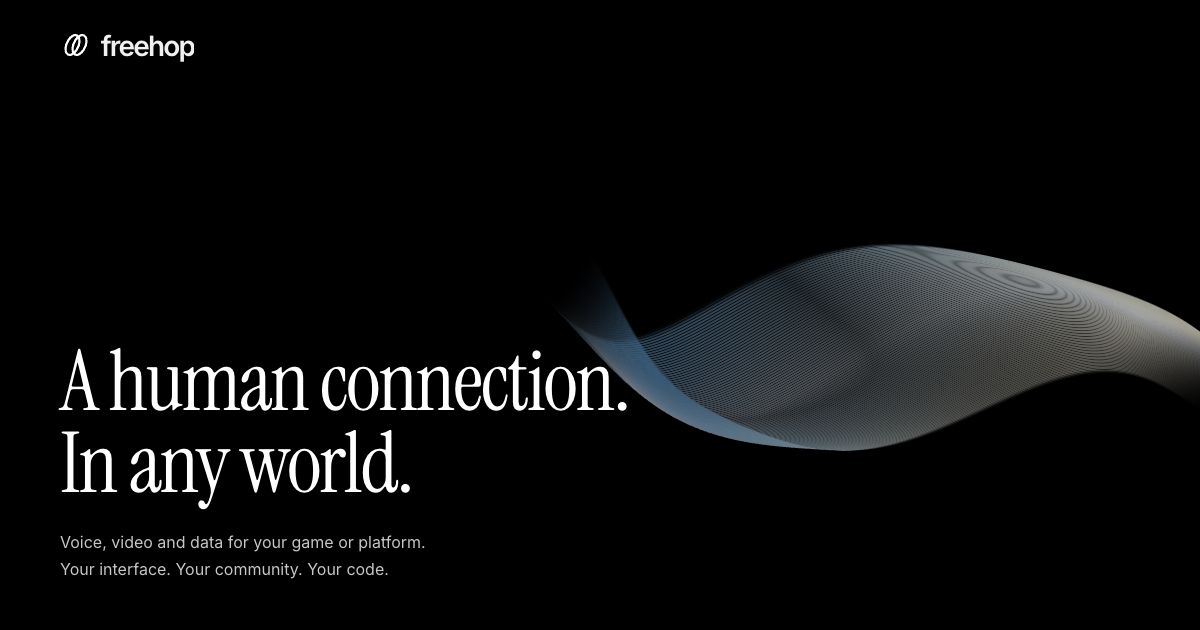
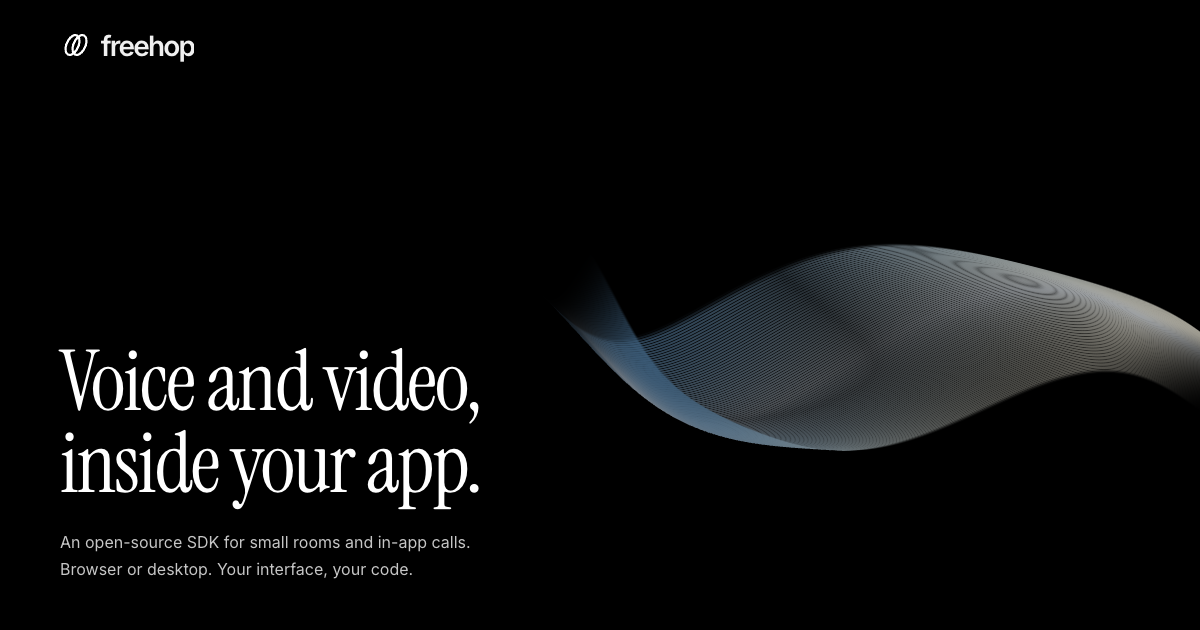
Show practical calling use cases beyond games

Changed region(s): [[0.0308, 0.5429, 0.5242, 0.6635], [0.0308, 0.6937, 0.4008, 0.8143], [0.0308, 0.8444, 0.4008, 0.9349]]

diff --git a/website/src/pages/index.tsx b/website/src/pages/index.tsx
@@ -5,6 +5,7 @@ import Link from '@docusaurus/Link';
 import BrowserOnly from '@docusaurus/BrowserOnly';
 import CodeBlock from '@theme/CodeBlock';
 import AppShowcase from '@site/src/components/home/AppShowcase';
+import UseCases from '@site/src/components/home/UseCases';
 import CompareTable from '@site/src/components/compare/CompareTable';
 import s from './index.module.css';
 const snippet = `import { connect } from 'freehop';
@@ -23,8 +24,8 @@ export default function Home() {
   const [copy, setCopy] = useState('Copy');
   return (
     <Layout
-      title="A human connection. In any world."
-      description="Freehop is the open-source voice, video and data SDK for browser games, Electron apps and platforms. Build with AI or without it."
+      title="Voice and video, inside your app."
+      description="An open-source calling SDK for small meeting rooms, in-app calls, shared workspaces and Electron apps. Your interface, with voice, video and session data."
     >
       <Head>
         <html className="fh-home" />
@@ -43,7 +44,7 @@ export default function Home() {
             <span>
               Open-source connections.
               <br />
-              Built for the worlds you create.
+              For the apps you build.
             </span>
             <span>
               Browser / Desktop
@@ -53,16 +54,16 @@ export default function Home() {
           </div>
           <div className={s.heroCopy}>
             <h1 id="hero-title">
-              A human connection.
+              Voice and video,
               <br />
-              In any world.
+              inside your app.
             </h1>
             <div className={s.heroBottom}>
               <div>
                 <p>
-                  Voice, video and data for your game or platform.
+                  An open-source SDK for small rooms and in-app calls.
                   <br />
-                  Your interface. Your community. Your code.
+                  Browser or desktop. Your interface, your code.
                 </p>
                 <div className={s.actions}>
                   <Link className={s.primary} to="/demo">
@@ -95,9 +96,9 @@ export default function Home() {
           <div className={s.buildIntro}>
             <p className={s.label}>The Freehop SDK</p>
             <h2>
-              Voice, video, data.
+              One SDK.
               <br />
-              Inside your app.
+              Your interface.
             </h2>
             <p>
               Connect a session, attach incoming media to your own interface, and send small messages between participants. The same JavaScript API works in the
@@ -137,6 +138,7 @@ export default function Home() {
             </p>
           </div>
         </section>
+        <UseCases />
         <AppShowcase />
         <section className={s.network}>
           <p className={s.label}>How the connection works</p>
@@ -187,9 +189,9 @@ export default function Home() {
         <section className={s.closing}>
           <p className={s.label}>Apache-2.0 / No Freehop subscription</p>
           <h2>
-            The next world
+            Build your
             <br />
-            is yours.
+            first call.
           </h2>
           <div className={s.actions}>
             <Link className={s.primary} to="/docs/quickstart">

diff --git a/website/src/components/home/UseCases.tsx b/website/src/components/home/UseCases.tsx
@@ -1,0 +1,76 @@
+import Link from '@docusaurus/Link';
+import s from './UseCases.module.css';
+
+const USE_CASES = [
+  {
+    id: 'meeting-rooms',
+    name: 'Small meeting rooms',
+    example: 'Team check-ins, study groups, project calls.',
+    description: 'Build a room with a joining link, camera preview and chat. Keep the controls simple and the room part of your own product.',
+    capability: 'Voice · video · room messages',
+    action: 'Build a meeting room',
+  },
+  {
+    id: 'in-app-calls',
+    name: 'Calls inside a small app',
+    example: 'A support call beside the customer’s project.',
+    description: 'Add a call panel to an existing portal or tool. People can talk while keeping the page, task and context in front of them.',
+    capability: 'Your interface · your sign-in',
+    action: 'Embed a call',
+  },
+  {
+    id: 'shared-workspaces',
+    name: 'Shared workspaces',
+    example: 'Design reviews, pair building, shared canvases.',
+    description: 'Put a conversation beside the work. Send small events such as a selected item or a raised hand alongside voice and video.',
+    capability: 'Media tracks · application events',
+    action: 'Connect a workspace',
+  },
+  {
+    id: 'desktop-apps',
+    name: 'Desktop collaboration',
+    example: 'A team tool with calling built in.',
+    description: 'Use the same client in Electron. An optional desktop gateway can help other people in the session connect through difficult networks.',
+    capability: 'Browser API · Electron gateway',
+    action: 'Build for desktop',
+  },
+  {
+    id: 'community-rooms',
+    name: 'Community rooms & games',
+    example: 'Club hangouts, co-op voice, small watch groups.',
+    description: 'Give a few people a place to talk inside your community or game. Your app supplies the activity; Freehop connects the participants.',
+    capability: 'Voice-first rooms · optional video',
+    action: 'Add a community room',
+  },
+];
+
+export default function UseCases() {
+  return (
+    <section className={s.section} id="use-cases" aria-labelledby="use-cases-title">
+      <div className={s.heading}>
+        <p className={s.label}>Use cases</p>
+        <h2 id="use-cases-title">What you can build.</h2>
+        <p className={s.intro}>
+          A small room on its own. A call inside an app you already have. These integration ideas use the same SDK, with your interface and your room rules.
+        </p>
+      </div>
+      <div className={s.cases}>
+        {USE_CASES.map((item) => (
+          <article className={s.item} key={item.id}>
+            <div>
+              <h3>{item.name}</h3>
+              <p className={s.example}>{item.example}</p>
+            </div>
+            <div className={s.detail}>
+              <p>{item.description}</p>
+              <span className={s.capability}>{item.capability}</span>
+              <Link to={`/docs/use-cases#${item.id}`}>
+                {item.action} <span aria-hidden="true">↗</span>
+              </Link>
+            </div>
+          </article>
+        ))}
+      </div>
+    </section>
+  );
+}

diff --git a/website/src/components/home/UseCases.module.css b/website/src/components/home/UseCases.module.css
@@ -1,0 +1,98 @@
+.section {
+  max-width: 1320px;
+  margin: auto;
+  padding: 120px 6% 20px;
+  scroll-margin-top: 90px;
+}
+.heading {
+  display: grid;
+  grid-template-columns: 1fr 1.14fr;
+  gap: 24px 90px;
+  margin-bottom: 65px;
+}
+.label {
+  grid-column: 1 / -1;
+  font: 11px/1.6 var(--fh-mono);
+  color: var(--fh-fog);
+  margin: 0 0 10px;
+}
+.heading h2 {
+  font: 400 clamp(38px, 4.2vw, 62px)/1.07 var(--fh-display);
+  letter-spacing: -0.055em;
+  color: var(--fh-ink);
+  margin: 0;
+}
+.intro {
+  font-size: 15px;
+  line-height: 1.8;
+  color: var(--fh-fog);
+  margin: 0;
+  max-width: 480px;
+  align-self: end;
+}
+.item {
+  display: grid;
+  grid-template-columns: 1fr 1.14fr;
+  gap: 90px;
+  border-top: var(--fh-hairline);
+  padding: 38px 0 42px;
+}
+.item h3 {
+  font: 400 28px/1.2 var(--fh-display);
+  letter-spacing: -0.035em;
+  color: var(--fh-ink);
+  margin: 0 0 14px;
+}
+.example {
+  font-size: 13px;
+  line-height: 1.7;
+  color: var(--fh-fog);
+  margin: 0;
+  max-width: 340px;
+}
+.detail > p {
+  font-size: 14px;
+  line-height: 1.8;
+  color: var(--fh-slate);
+  margin: 0 0 18px;
+  max-width: 480px;
+}
+.capability {
+  display: block;
+  font: 10px/1.8 var(--fh-mono);
+  color: var(--fh-fog);
+  margin-bottom: 22px;
+}
+.detail a {
+  display: inline-flex;
+  align-items: center;
+  gap: 20px;
+  color: var(--fh-ink);
+  font-size: 12px;
+  text-underline-offset: 5px;
+}
+@media (max-width: 1000px) {
+  .heading,
+  .item {
+    column-gap: 40px;
+  }
+}
+@media (max-width: 650px) {
+  .section {
+    padding-top: 80px;
+  }
+  .heading,
+  .item {
+    grid-template-columns: 1fr;
+    gap: 24px;
+  }
+  .heading {
+    margin-bottom: 40px;
+  }
+  .item {
+    padding-block: 30px 35px;
+  }
+  .item h3 {
+    font-size: 26px;
+  }
+}

diff --git a/website/src/theme/Footer/index.tsx b/website/src/theme/Footer/index.tsx
@@ -7,6 +7,7 @@ const COLUMNS = [
     title: 'Learn',
     links: [
       {label: 'Introduction', to: '/docs'},
+      {label: 'Use cases', to: '/docs/use-cases'},
       {label: 'Quickstart', to: '/docs/quickstart'},
       {label: 'Paths and escalation', to: '/docs/concepts/paths'},
       {label: 'Security model', to: '/docs/concepts/security'},
@@ -45,7 +46,7 @@ export default function Footer() {
             <img src={logo} alt="" width={40} height={40} />
             <span>freehop</span>
           </Link>
-          <p className={styles.tagline}>Open-source comms for the worlds you build. Browser games, Electron apps, and your next platform.</p>
+          <p className={styles.tagline}>Open-source voice, video and data for small rooms and the apps you build. Browser and Electron.</p>
         </div>
         <nav className={styles.columns} aria-label="Footer">
           {COLUMNS.map((column) => (

diff --git a/website/docusaurus.config.ts b/website/docusaurus.config.ts
@@ -43,7 +43,7 @@ const lightCodeTheme: PrismTheme = {
 
 const config: Config = {
   title: 'freehop',
-  tagline: 'Build worlds. Bring people. Open-source voice, video and data for games and platforms.',
+  tagline: 'Voice and video, inside your app. Open-source calling for small rooms, browser apps and Electron.',
   favicon: 'img/favicon.svg',
 
   future: {
@@ -133,6 +133,7 @@ const config: Config = {
       items: [
         {type: 'docSidebar', sidebarId: 'docs', position: 'left', label: 'Docs'},
 
+        {to: '/docs/use-cases', label: 'Use cases', position: 'left'},
         {to: '/demos', label: 'Demos', position: 'left'},
         {to: '/docs/sdk/desktop', label: 'Electron', position: 'left'},
         {to: '/docs/quickstart', label: 'Start building', position: 'right', className: 'navbar-live-call'},

diff --git a/website/sidebars.ts b/website/sidebars.ts
@@ -4,7 +4,8 @@ const sidebars: SidebarsConfig = {
   docs: [
     'intro',
     'quickstart',
-    {type: 'category', label: 'Build a platform', items: ['games', 'build-with-ai']},
+    'use-cases',
+    {type: 'category', label: 'Integration guides', items: ['games', 'build-with-ai']},
     'comparison',
     {
       type: 'category',

diff --git a/README.md b/README.md
@@ -4,9 +4,9 @@
 
 # freehop
 
-### A human connection. In any world.
+### Voice and video, inside your app.
 
-Open-source voice, video and data for browser games, Electron apps and the platforms you build next.
+Open-source calling for small meeting rooms, in-app conversations, shared workspaces and Electron apps.
 
 **[Try the demos](https://jolynstudios.github.io/freehop/demos)** · **[Documentation](https://jolynstudios.github.io/freehop/docs)** · **[Quickstart](#quickstart)** · **[Protocol](PROTOCOL.md)**
 
@@ -16,18 +16,30 @@ Open-source voice, video and data for browser games, Electron apps and the platf
 
 </div>
 
-## Put people inside your world
+## Add a call to what you’re building
 
-Build a co-op browser game, a shared 3D workspace, a community platform, or an Electron app. Freehop adds the human layer: voice, optional video, and small session messages inside your own interface.
+Build a small meeting app, add a support call to an existing tool, or put voice beside a shared workspace. Freehop provides audio, optional video and small session messages inside your own interface. The same SDK also fits community rooms and games.
 
-**Build with AI. Build without it. Own the result.** Use an AI coding agent to scaffold an integration or write it yourself. Freehop has an inspectable JavaScript API and source; bring your own models, NPC logic, authentication and backend. It does not include an AI model, transcription service, or agent runtime.
+**Build with AI. Build without it. Own the result.** Use an AI coding agent to scaffold an integration or write it yourself. Freehop has an inspectable JavaScript API and source; bring your own models, application logic, authentication and backend. It does not include an AI model, transcription service, or agent runtime.
 
 | Start here | What you can try |
 |---|---|
-| [Hopper](https://jolynstudios.github.io/freehop/hopper) | Squad rooms with device preview, video, voice and chat. |
+| [Hopper](https://jolynstudios.github.io/freehop/hopper) | Small rooms with device preview, video, voice and chat. |
 | [Live demo](https://jolynstudios.github.io/freehop/demo) | A real browser call with connection-path and playback inspection. |
 
 Open Hopper or the live demo in two browsers, or share a room link with someone. Both run the real Freehop client and demonstrate voice, video and session connections.
+
+### Where it fits
+
+| Build | Freehop provides | Your app provides |
+|---|---|---|
+| Small meeting rooms | Voice, video, controls and chat messages | Room UI, invitations and admission |
+| Calls inside a portal or tool | A call attached to the current task | Identity, access rules and customer/project data |
+| Shared workspaces | Media plus small selection or ready events | Editor, document sync and persistence |
+| Electron collaboration apps | Renderer client and optional desktop gateway | Desktop UI, packaging and updates |
+| Community rooms and games | Voice-first rooms, optional video, small events | Community rules, activity or game logic |
+
+These are integration ideas; Hopper and the live demo are the working examples. See the [use-case recipes](https://jolynstudios.github.io/freehop/docs/use-cases).
 
 Read the [Three.js integration guide](https://jolynstudios.github.io/freehop/docs/games), [Electron reference](https://jolynstudios.github.io/freehop/docs/sdk/desktop), or [AI build brief](https://jolynstudios.github.io/freehop/docs/build-with-ai).
 

diff --git a/website/DESIGN.md b/website/DESIGN.md
@@ -104,3 +104,18 @@ return to System. WCAG A/AA automated audits cover home, docs, results, cost, co
 quickstart, demos, live call, paths, gates and Hopper in both themes. Screenshots confirm
 unobscured results and readable calculator panels. Real two-peer audio/video, controls,
 chat and Hopper leave/rejoin checks passed. Favicon files remain unchanged.
+
+## Practical use cases and plain copy
+
+User rejected abstract “world” slogans and asked to show more than games, keeping both demos.
+The hero now says “Voice and video, inside your app.”; the close says “Build your first call.”
+SDK code remains immediately below the hero. A new section shows five concrete integration
+ideas: small meeting rooms, in-app calls, shared workspaces, Electron collaboration and
+community/game rooms. Each links to a recipe grounded in the existing SDK API. These are
+clearly presented as things to build; Hopper and the live demo remain the working examples.
+
+The approved Refero layout remains the target: spacious type, flat surfaces, hairline row
+separators and neutral themes. Use cases are readable rows rather than fabricated product
+screens or more demos. README, introduction, AI build brief, navigation, footer and social
+preview carry the same broader positioning. Desktop/mobile checks in both themes pass with
+five valid recipe anchors, no overflow, runtime errors or automated WCAG A/AA violations.
